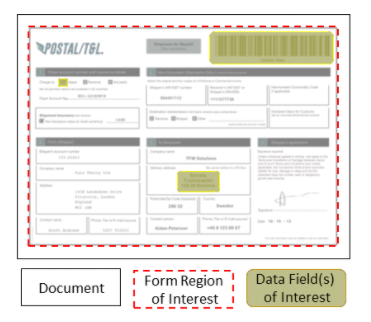
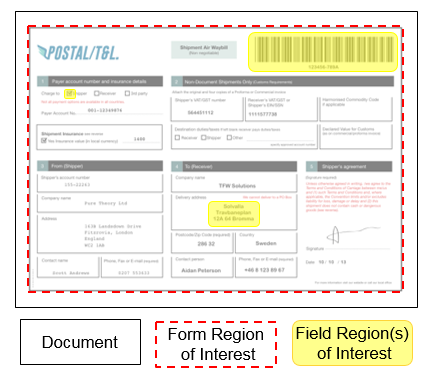
[TUT-11247] SS 1.1 READY FOR VALIDATION

diff --git a/simulscan/1-1/guide/license/index.html b/simulscan/1-1/guide/license/index.html
@@ -228,7 +228,7 @@
 
                                         <p></p><h2 id="overview" class="anchor"><a class="heading-anchor" href="#overview"><span></span></a>Overview</h2>
 
-<p><strong>The SimulScan solution is free when used with Zebra's <a href="../../../../datawedge">DataWedge</a> service</strong> to scan only barcodes<!-- _<u>and</u>_ to scan fewer than 10 barcodes at a time. Scanning 10 or more barcodes from a single form requires a SimulScan license. --> A license is required for access to advanced features such as optical character recognition (OCR) and optical mark recognition (OMR), or to use <a href="../../api">SimulScan APIs</a> to access SimulScan functions from within a custom app or when using it with <a href="../../../../enterprise-browser">Enterprise Browser</a>.</p>
+<p><strong>The SimulScan solution is free when used with Zebra's <a href="../../../../datawedge">DataWedge</a> service</strong> to scan only barcodes<!-- _<u>and</u>_ to scan fewer than 10 barcodes at a time. Scanning 10 or more barcodes from a single form requires a SimulScan license. --> A license is required for access to advanced features such as optical character recognition (OCR) and optical mark recognition (OMR). <!-- or to use <a href="../../api">SimulScan APIs</a> to access SimulScan functions from within a custom app or when using it with <a href="../../../../enterprise-browser">Enterprise Browser</a>.--></p>
 
 <p><strong>General Licensing Rules</strong>:</p>
 
@@ -277,13 +277,15 @@
 
 
 <ul>
-<li>Place an order for device licenses (see image below)</li>
+<li>Place an order for device licenses (see image)</li>
 
-<li>See the status of existing orders</li>
+<li>View the status of existing orders</li>
 
-<li>Assign licenses to devices or deployments</li>
+<li>Assign licenses to devices </li>
 
-<li>View current license inventory and assignments</li></ul>
+<li>Generate Deployment License Keys</li>
+
+<li>View current license inventory and assignment(s)</li></ul>
 </li>
 </ul>
 
@@ -301,17 +303,17 @@
 
 <p><strong>1. Enter the device model and serial number</strong> (as shown) and other required information and <strong>Press Submit</strong> when done. 
 <img src="assignlicense.png" alt="img">
-<em>Individual licenses must be applied manually. Deployment licenses can be deployed remotely</em>.
+<em>Individual licenses must be applied manually at the device. Deployment licenses can be deployed remotely</em>.
 <br></p>
 
 <p><strong>2. Download the</strong> <code>SDC_License.xml</code> <strong>file</strong> from the licensing server to a local PC:
 <img src="downloadlicense.png" alt="img">
-<em>Licenses are tied to the device model and serial number and will fail if deployed elsewhere</em>. <br>
+<em>Licenses are tied to the device model and serial number and will fail if transferred to another device</em>.
 <br></p>
 
 <p><strong>3. Push the License file to the device(s)</strong>.</p>
 
-<p><strong>4. In the Settings panel, select About Phone –&gt; Legal Information -&gt; Symbol Licenses -&gt; Menu -&gt; Install license</strong>.</p>
+<p><strong>4. In the Settings panel, select About Phone -&gt; Legal Information -&gt; Symbol Licenses -&gt; Menu -&gt; Install license</strong>.</p>
 
 <p><strong>5. Navigate to the License file</strong> and select it.</p>
 
@@ -320,13 +322,13 @@
 <h4 id="remotedeployment" class="anchor"><a class="heading-anchor" href="#remotedeployment"><span></span></a>Remote deployment</h4>
 
 <ol>
-<li>Generate a Deployment Key on the Licensing website. </li>
+<li><strong>Generate a Deployment Key</strong> on the Licensing website. </li>
 
-<li>Launch the StageNow wizard and select "SimulScan mass-deployment."</li>
+<li><strong>Launch the StageNow wizard</strong> and select "SimulScan mass-deployment."</li>
 
-<li>Input the Deployment Key when prompted. </li>
+<li><strong>Input the Deployment Key</strong> when prompted. </li>
 
-<li>Deploy the Key to devices.  </li>
+<li><strong>Deploy the Key to devices</strong>.  </li>
 </ol>
 
 <p>Once deployed to the device, SimulScan licenses are installed automatically. For details, please refer to <a href="../../../../stagenow">StageNow documentation</a>. </p>
@@ -346,7 +348,7 @@
 <p>A reply will be sent with access credentials for <a href="https://softwarelicensing.zebra.com/">Zebra's Software Licensing Portal</a>, generally on the next business day. </p>
 
 <ul>
-<li><strong>Follow directions</strong> to <a href="#iiiassignlicense">assign the license</a>. </li>
+<li><strong>Follow directions</strong> to <a href="#iiiassignlicenses">assign the license</a>. </li>
 </ul>
 
 <!--

diff --git a/simulscan/1-1/guide/templates/index.html b/simulscan/1-1/guide/templates/index.html
@@ -124,7 +124,7 @@
 <div class="row">
     <div class="col-sm-12" id="guides">
         <h1 id="simulscan-pre-built-templates" class="anchor"><a class="heading-anchor" href="#simulscan-pre-built-templates"><span></span></a>SimulScan Pre-built Templates</h1>
-        <p>Zebra provides pre-built SimulScan Templates for specific industries that can be used as-is or modified as needed. All Templates can be downloaded from the /Public/templates folder of the Template Builder web site. Zebra assumes no responsibility for Templates.
+        <p>Zebra provides pre-built SimulScan Templates for specific industries that can be used as-is or modified as needed. All Templates can be downloaded from the /Public/templates folder of the Template Builder web site.
     </p></div>
 </div>
 
@@ -157,61 +157,13 @@
                     </h5> 
                         <ul style="display:block;">
                             <li>
-                                <a href="auto"><span>LIVE SAMPLE</span></a>
+                                <a href="auto"><span>AIAG templates</span></a>
                             </li>
                             <li>
-                                <a href=""><span>Manufacturing</span></a>
+                                <a href=""><span>(under construction)</span></a>
                             </li>
                             <li>
-                                <a href=""><span>Receiving</span></a>
-                            </li>
-                        </ul>
-                </div>
-              <div>
-                    <h5 id="-manufacturing-" class="anchor"><a class="heading-anchor" href="#-manufacturing-"><span></span></a>
-                        
-                            Manufacturing
-                        
-                    </h5> 
-                        <ul style="display:block;">
-                            <li>
-                                <a href=""><span>sample</span></a>
-                            </li>
-                            <li>
-                                <a href=""><span>sample</span></a>
-                            </li>
-                            <li>
-                                <a href=""><span>sample</span></a>
-                            </li>
-                            <li>
-                                <a href=""><span>another sample</span></a>
-                            </li>
-                        </ul>
-                </div>
-              <div>
-                    <h5 id="-medical-" class="anchor"><a class="heading-anchor" href="#-medical-"><span></span></a>
-                        
-                            Medical
-                        
-                    </h5> 
-                        <ul style="display:block;">
-                            <li>
-                                <a href="patient"><span>Patient</span></a>
-                            </li>
-                            <li>
-                                <a href="supplies"><span>Supplies</span></a>
-                            </li>
-                            <li>
-                                <a href="er"><span>Emergency Room</span></a>
-                            </li>
-                            <li>
-                                <a href="xray"><span>X-Ray Tech</span></a>
-                            </li>
-                            <li>
-                                <a href="stuff"><span>Fake Stuff</span></a>
-                            </li>
-                            <li>
-                                <a href="giftshop"><span>Gift Shop</span></a>
+                                <a href=""><span>(under construction)</span></a>
                             </li>
                         </ul>
                 </div>

diff --git a/simulscan/1-1/guide/setup/index.html b/simulscan/1-1/guide/setup/index.html
@@ -231,22 +231,20 @@
 <h4 id="simulscancanbeusedthrough" class="anchor"><a class="heading-anchor" href="#simulscancanbeusedthrough"><span></span></a>SimulScan can be used through:</h4>
 
 <ul>
-<li><strong><a href="../../../../datawedge">DataWedge</a></strong>, which is covered here</li>
+<li><strong><a href="../../../../datawedge">DataWedge</a></strong>, which is covered below</li>
 
-<li><strong>A custom Android app</strong>, which is covered in the <a href="../../api">SimulScan API guide</a></li>
+<li><strong>A custom Android app</strong>, described in the <a href="../../api">SimulScan API guide</a></li>
 
 <li><strong>The <a href="../demo">SimulScan Demo App</a></strong>, which exposes all features except the ability to save acquired data</li>
 </ul>
 
-<h4 id="simulscanusagebasics" class="anchor"><a class="heading-anchor" href="#simulscanusagebasics"><span></span></a>SimulScan usage basics</h4>
-
-<p>To <a href="/simulscan/1-1/guide/setup/#activatesimulscan">activate SimulScan</a>, simply select it as an Input Plug-in from within DataWedge, an app that comes with every Zebra device. To get started immediately, <strong><a href="#accessthroughdatawedge">skip the Template intro</a></strong> if already familiar with SimulScan and Templates. Otherwise, read the short <a href="#intrototemplates">About Templates</a> section below and the <a href="../about">About SimulScan page</a> before proceeding. </p>
+<p><strong>To <a href="/simulscan/1-1/guide/setup/#activatesimulscan">activate SimulScan</a></strong>, simply select it as an Input Plug-in from within DataWedge, an app that comes with every Zebra device. To get started immediately, <strong><a href="#accessthroughdatawedge">skip the Template intro</a></strong>, which covers the basics of SimulScan and Templates. To learn more, read the short intro below and the <a href="../about">About SimulScan page</a> before proceeding. </p>
 
 <hr>
 
 <h3 id="intrototemplates" class="anchor"><a class="heading-anchor" href="#intrototemplates"><span></span></a>Intro to Templates</h3>
 
-<p>Templates are central to the power of SimulScan; they control its ability to decode and parse data, and determine how acquired data is consumed by an application. At least one Template must be present and selected on the device before SimulScan can be used; a number of generic Templates are included.</p>
+<p><strong>Templates are central to the power of SimulScan</strong>; they are used in all modes and control its ability to decode and parse data, and determine how acquired data is consumed by an application. At least one Template must be present and selected on the device before SimulScan can be used; a number of generic Templates are included.</p>
 
 <p>Custom Templates can either be Structured or Unstructured. A <strong>Structured Template</strong> is used when the Document to be scanned has a fixed layout--one that doesn't change from one instance of the form to another. Structured Templates are used to acquire multiple types of data at once (barcodes, text, images, etc.). <strong>Unstructured Templates</strong> are for target Documents that vary in layout. These Templates are limited to capturing a single data type (only barcodes, only text, etc.), but the target <em><strong>data</strong></em> can be located anywhere on the form.</p>
 

diff --git a/simulscan/1-1/guide/templatebuilder/index.html b/simulscan/1-1/guide/templatebuilder/index.html
@@ -232,6 +232,10 @@
 
 <p>Most acquisition tasks involve capturing data from printed documents. These "target" documents often vary in size, shape and layout, and present a challenge for accurate data acquisition. Templates solve this problem by "teaching" SimulScan about the documents it will encounter, and defining how to scan and process data for each instance of that target document. </p>
 
+<p><img src="regions_of_interest.png" alt="img"></p>
+
+<p>SimulScan Templates define "Form Regions of interest" on Documents to be scanned, "Field Regions of interest" within forms, and the types of data (barcode, text, etc.) to be extracted from each Field. Templates are used in all SimulScan modes. They control its ability to decode and parse data, and determine how acquired data can be consumed by an application. </p>
+
 <p><img style="height:350px" src="msi_reader.png">
 <em>A typical barcode-only form, a common and effective SimulScan usage scenario</em>.
 <br></p>
@@ -274,7 +278,7 @@
 
 <p><strong>Field-</strong> see Region Field.  </p>
 
-<p><strong>Form Region of Interest -</strong> the area inside the outer-most border of a Document that contains Fields of Interest with data to be acquired.   </p>
+<p><strong>Form Region of Interest -</strong> the area inside the outer-most border of a Document that contains Field Regions of Interest with data to be acquired.   </p>
 
 <p><strong>Grouped Regions -</strong> refers to sections of a Document that require Fields (i.e. an address) to be grouped logically as an aid to processing the acquired data. </p>
 
@@ -296,7 +300,7 @@
 
 <p><strong>Picture -</strong> graphical image to be acquired as a file (i.e. <code>.jpg</code> file). Minimum image size: 128 x 128 pixels; maximum: 2600 x 2000 pixels.  </p>
 
-<p><strong>Region Field of Interest-</strong> area of a form within a Form Region of Interest that is associated with a data type and processing method (i.e. a barcode). Also referred to simply as a "Field." </p>
+<p><strong>Region Field of Interest-</strong> area of a form within a Form Region of Interest that is associated with a data type and processing method (i.e. a barcode). Also referred to as a "Field." </p>
 
 <p><strong>Secure Storage -</strong> the online area accessible only by credentialed user(s) in which Templates are stored. </p>
 

diff --git a/simulscan/1-1/guide/about/index.html b/simulscan/1-1/guide/about/index.html
@@ -243,7 +243,7 @@
 <ul>
 <li><strong>Scanning is frequent</strong> in the organization, and...</li>
 
-<li><strong>Scanned forms are of a fixed layout</strong> and</li>
+<li><strong>Scanned forms are of a fixed layout</strong>, and...</li>
 
 <li><strong>Forms have well-defined borders</strong>.</li>
 </ul>
@@ -279,7 +279,12 @@
 
 <h2 id="howitworks" class="anchor"><a class="heading-anchor" href="#howitworks"><span></span></a>How it Works</h2>
 
-<p>SimulScan works through Templates, which define "Form Regions of interest" on Documents to be scanned, "Field Regions of interest" within forms, and the types of data (barcode, text, etc.) to be extracted from each Field. <strong>SimulScan can be accessed</strong> either by selecting it as an Input Plug-in using Zebra's free <a href="../../../../datawedge">DataWedge</a> service, or directly from within an Android app using the <a href="../../api">SimulScan APIs</a>. SimulScan features also can be explored using the <a href="../demo">SimulScan Demo App</a>, which exposes all features and functions except the ability to save acquired data. The Demo App also can be used to test custom Templates.</p>
+<p>SimulScan works through Templates, which define "Form Regions of interest" on Documents to be scanned, "Field Regions of interest" within forms, and the types of data (barcode, text, etc.) to be extracted from each Field. </p>
+
+<p><img src="regions_of_interest.png" alt="img">
+<br></p>
+
+<p>SimulScan is accessed either by selecting it as an Input Plug-in using Zebra's free <a href="../../../../datawedge">DataWedge</a> service, or called directly from within an Android app using the <a href="../../api">SimulScan APIs</a>. SimulScan features also can be explored using the <a href="../demo">SimulScan Demo App</a>, which exposes all features and functions except the ability to save acquired data. The Demo App also can be used to test custom Templates.</p>
 
 <p><strong>SimulScan is free</strong> when used with DataWedge or from a custom app to scan only barcodes. A per-device license is required access to OCR or OMR. For licensing details, please see the <a href="../license">Licensing guide</a>. </p>
 

diff --git a/simulscan/1-1/guide/templates/auto/index.html b/simulscan/1-1/guide/templates/auto/index.html
@@ -228,7 +228,7 @@
 
                                         <p></p><h2 id="overview" class="anchor"><a class="heading-anchor" href="#overview"><span></span></a>Overview</h2>
 
-<p>Automotive Templates have been created to serve THIS, THAT and the OTHER segment. All Templates can be found on the <code>/Public/templates</code> folder of the <a href="http://simulscan.zebra.com">Template Builder web site</a>. <strong>Zebra assumes no responsibility for Templates</strong>. </p>
+<p>Automotive Templates have been created to serve specific industry segments. All Templates can be found in the <code>/Public/templates</code> folder of the <a href="http://simulscan.zebra.com">Template Builder web site</a>. </p>
 
 <hr>
 
